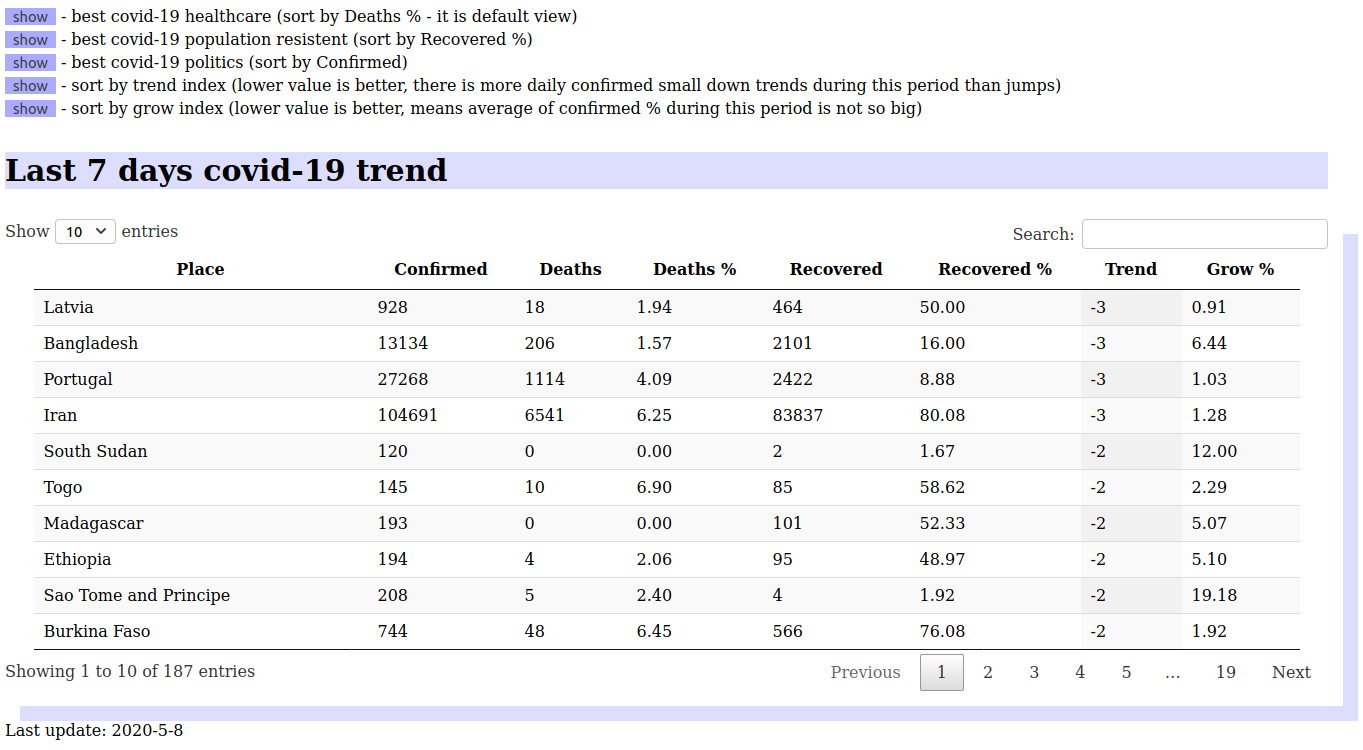
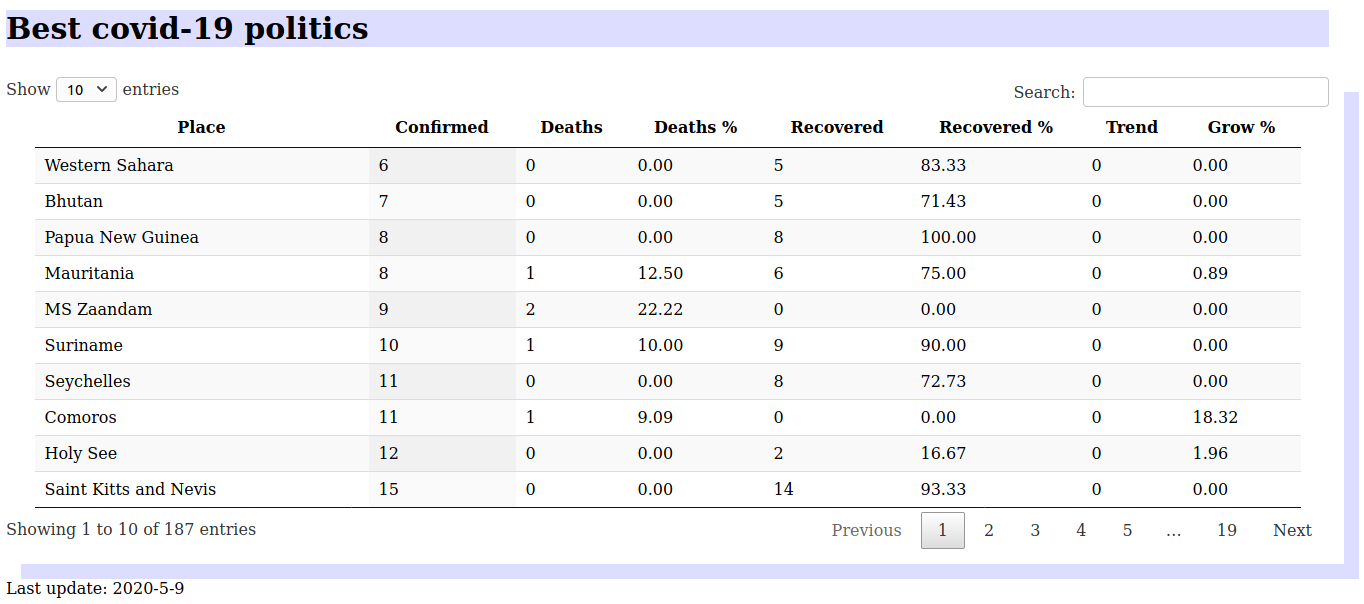
keep table order

diff --git a/js/actions.js b/js/actions.js
@@ -1,19 +1,17 @@
-/* ----------------------------------------------------------------------------------------------------------------------------
+/* -----------------------------------------------------------------------------------------------------------------------
    GLOBALS
-   ---------------------------------------------------------------------------------------------------------------------------- */
+   -------------------------------------------------------------------------------------------------------------------- */
 
-var tTitle = '';
-var output = '';
+var gTitle = 0;
+var gPeriod = 14;
+var gTable = '';
 
-var period = 7;
-var table = '';
+var gData = '';
+var gSize = 0;
 
-var aData = '';
-var aSize = 0;
-
-/* ----------------------------------------------------------------------------------------------------------------------------
+/* -----------------------------------------------------------------------------------------------------------------------
    CALCULATIONS
-   ---------------------------------------------------------------------------------------------------------------------------- */
+   -------------------------------------------------------------------------------------------------------------------- */
 
 function getTrend(key, data, p) {
     
@@ -57,61 +55,56 @@ function getGrow(key, data, p) {
     return tGrow/p;
 }
 
-/* ----------------------------------------------------------------------------------------------------------------------------
+/* -----------------------------------------------------------------------------------------------------------------------
    BUTTONS
-   ---------------------------------------------------------------------------------------------------------------------------- */
+   -------------------------------------------------------------------------------------------------------------------- */
 
 function showDeaths() {
     
-    table.order([3, 'asc']).draw();
-    tTitle = 'Best covid-19 healthcare';
-    document.getElementById("TITLE").innerHTML = tTitle;
+    gTable.order([3, 'asc']).draw();
+    setTitle(0);
 }
 
 function showRecov() {
     
-    table.order([5, 'dsc']).draw();
-    tTitle = 'Best covid-19 population';
-    document.getElementById("TITLE").innerHTML = tTitle;
+    gTable.order([5, 'dsc']).draw();
+    setTitle(1);
 }
 
 function showConfirm() {
     
-    table.order([1, 'asc']).draw();
-    tTitle = 'Best covid-19 politics';
-    document.getElementById("TITLE").innerHTML = tTitle;
+    gTable.order([1, 'asc']).draw();
+    setTitle(2);
 }
 
 function showTrend() {
     
-    table.order([6, 'asc']).draw();
-    tTitle = 'Last '+period+' days covid-19 trend';
-    document.getElementById("TITLE").innerHTML = tTitle;
+    gTable.order([6, 'asc']).draw();
+    setTitle(3);
 }
 
 function showGrow() {
     
-    table.order([7, 'asc']).draw();
-    tTitle = 'Last '+period+' days covid-19 grow';
-    document.getElementById("TITLE").innerHTML = tTitle;
+    gTable.order([7, 'asc']).draw();
+    setTitle(4);
 }
 
-/* ----------------------------------------------------------------------------------------------------------------------------
+/* -----------------------------------------------------------------------------------------------------------------------
    SET PAGE
-   ---------------------------------------------------------------------------------------------------------------------------- */
+   -------------------------------------------------------------------------------------------------------------------- */
 
 function setPanel() {
     
     let tPanel = '';
     
     tPanel += 'Period: ';
-    tPanel += '<input type="radio" id="period1" name="period" value="7" checked="checked" onClick="setPeriod(7)" />';
+    tPanel += '<input type="radio" id="period1" name="period" value="7" onClick="setPeriod(7)" />';
     tPanel += '<label for="7">7 days</label>';
     tPanel += '&nbsp;&nbsp;';
-    tPanel += '<input type="radio" id="period2" name="period" value="14"  onClick="setPeriod(14)" />';
+    tPanel += '<input type="radio" id="period2" name="period" value="14" checked="checked" onClick="setPeriod(14)" />';
     tPanel += '<label for="14">14 days</label>';
     tPanel += '&nbsp;&nbsp;';
-    tPanel += '<input type="radio" id="period3" name="period" value="0"  onClick="setPeriod(0)" />';
+    tPanel += '<input type="radio" id="period3" name="period" value="0" onClick="setPeriod(0)" />';
     tPanel += '<label for="0">all available days</label>';
     tPanel += '</br>';
     
@@ -129,15 +122,23 @@ function setPanel() {
     tPanel += 'small down trends during this period than jumps)';
     tPanel += '</br>';
     tPanel += '<button onClick="showGrow()">show</button>';
-    tPanel += ' - sort by grow index (lower value is better, means average of confirmed % during this period is not so big)';
+    tPanel += ' - sort by grow index (lower value is better, means average of confirmed % during ';
+    tPanel += 'this period is not so big)';
     tPanel += '</br>';
     
     document.getElementById("PANEL").innerHTML = tPanel;
 }
 
-function setTitle() {
+function setTitle(t) {
     
-    tTitle = 'Best covid-19 healthcare';
+    let tTitle = ''; gTitle = t;
+    
+    if (t === 0) { tTitle = 'Best covid-19 healthcare'; }
+    if (t === 1) { tTitle = 'Best covid-19 population'; }
+    if (t === 2) { tTitle = 'Best covid-19 politics'; }
+    if (t === 3) { tTitle = 'Last '+gPeriod+' days covid-19 trend'; }
+    if (t === 4) { tTitle = 'Last '+gPeriod+' days covid-19 grow'; }
+        
     document.getElementById("TITLE").innerHTML = tTitle;
 }
 
@@ -147,26 +148,26 @@ function setTable(data) {
     
     Object.keys(data).forEach(function(key) {
 
-        aSize = data[key].length-1;
+        gSize = data[key].length-1;
 
         let col1 = key;
-        let col2 = data[key][aSize].confirmed;
-        let col3 = data[key][aSize].deaths;
+        let col2 = data[key][gSize].confirmed;
+        let col3 = data[key][gSize].deaths;
 
         let col4 = 0;
         if (col2 !== 0) {
             col4 = ( col3 / col2 ) * 100;
         }
 
-        let col5 = data[key][aSize].recovered;
+        let col5 = data[key][gSize].recovered;
 
         let col6 = 0;
         if (col2 !== 0) {
             col6 = ( col5 / col2 ) * 100;
         }
         
-        let col7 = getTrend(key, data[key], period);
-        let col8 = getGrow(key, data[key], period);
+        let col7 = getTrend(key, data[key], gPeriod);
+        let col8 = getGrow(key, data[key], gPeriod);
         
         // build table content
         tBody += '<tr>';
@@ -197,11 +198,12 @@ function setTable(data) {
     tHead += '</tr>';
     tHead += '</thead>';
 
-    output = '<div class="box-table">';
-        output += '<table id="covid-table" class="display">';
-        output += tHead + tBody;
-        output += '</table>';
-    output += '</div>';
+    
+    let tTable = '<table id="covid-table" class="display">';
+    tTable += tHead + tBody;
+    tTable += '</table>';
+
+    document.getElementById("TABLE").innerHTML = tTable;
 }
 
 function setStatus(data) {
@@ -209,59 +211,58 @@ function setStatus(data) {
     let key = Object.keys(data)[0];
     let s = data[key].length-1;
     
-    lastUpdate = data[key][s].date;
-    output += '<div class="bg-info">Last update: ' + lastUpdate + '</div>';
-}
-
-function setOutput(data) {
-
-    setTable(data);  
-    setStatus(data);   
-
-    document.getElementById("OUTPUT").innerHTML = output;
+    let tStatus = '<div class="bg-info">Last update: ';
+    tStatus += data[key][s].date;
+    tStatus += '</div>';
+    
+    document.getElementById("STATUS").innerHTML = tStatus;
 }
 
 function setPeriod(p) {
     
-    if (p === 0) { period = aSize; } else { period = p; }
-        
-    setTitle();
-    setOutput(aData);    
+    if (p === 0) { gPeriod = gSize; } else { gPeriod = p; }
     
-    table.destroy();
+    let oValue = gTable.order();
     
-    table = $('#covid-table').DataTable( {
-        "order": [[ 3, 'asc' ]],
+    setTitle(gTitle);
+    setTable(gData);    
+    
+    gTable.destroy();
+    
+    gTable = $('#covid-table').DataTable( {
         "orderClasses": true,
         responsive: true
     } );
-    new $.fn.dataTable.FixedHeader( table );        
+    new $.fn.dataTable.FixedHeader( gTable );
+    
+    gTable.order(oValue).draw();
 }
 
-/* ----------------------------------------------------------------------------------------------------------------------------
+/* -----------------------------------------------------------------------------------------------------------------------
    GET DATA & BUILD INITIAL PAGE
-   ---------------------------------------------------------------------------------------------------------------------------- */
+   -------------------------------------------------------------------------------------------------------------------- */
 
 fetch("https://pomber.github.io/covid19/timeseries.json")
   .then(response => response.json())
   .then(data => {
     
     // make backup for update output section purposes
-    aData = data;
+    gData = data;
     
     // INITIAL PAGE CONTENT
     setPanel();
-    setTitle(); 
-    setOutput(data);   
+    setTitle(0); 
+    setTable(data);  
+    setStatus(data);   
 
     // show the table
     $(document).ready( function () {
-        table = $('#covid-table').DataTable( {
+        gTable = $('#covid-table').DataTable( {
             "order": [[ 3, 'asc' ]],
             "orderClasses": true,
             responsive: true
         } );
-        new $.fn.dataTable.FixedHeader( table );        
+        new $.fn.dataTable.FixedHeader( gTable );        
     } );
 });
   

diff --git a/css/styles.css b/css/styles.css
@@ -1,6 +1,6 @@
-/* ----------------------------------------------------------------------------------------------------------------------------
+/* -----------------------------------------------------------------------------------------------------------------------
    BOX
-   ---------------------------------------------------------------------------------------------------------------------------- */
+   -------------------------------------------------------------------------------------------------------------------- */
 
 .box-page {
     width: 98%;
@@ -28,6 +28,6 @@
     padding: 0px 15px 15px 0px;
     margin-bottom: 15px;
 }
-.box-output {
+.box-status {
     width: 100%;
 }

diff --git a/index.html b/index.html
@@ -21,8 +21,11 @@
     <div class="box-title">
         <div id="TITLE"></div>
     </div>
-    <div class="box-output">
-        <div id="OUTPUT"></div>
+    <div class="box-table">
+        <div id="TABLE"></div>
+    </div>
+    <div class="box-status">
+        <div id="STATUS"></div>
     </div>
   </div>
   
